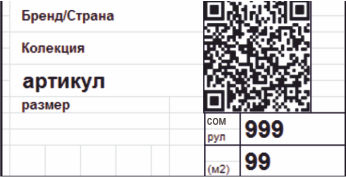
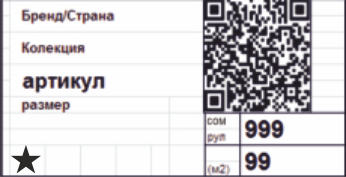
Подменил изображения ценников, добавил ссылки сайта в лого

diff --git a/index.html b/index.html
@@ -6,7 +6,7 @@
 	<link rel="stylesheet" href="css/reset.css">	
 	<link rel="stylesheet" href="vendor/bootstrap/bootstrap.css">
 	<link rel="stylesheet" href="css/main.css">
-	<title>Document</title>
+	<title>Торговый Дом Галерея</title>
 </head>
 <body>
 	<div class="container-fluid container-color">
@@ -14,7 +14,7 @@
 			<header class="header" id="top">
 				<div class="container">
 					<div class="col-xs-8 col-sm-8 col-md-8 col-lg-8">
-						<h1><a href="#"><img class="img-responsive logo" src="images/logo.png" alt="Логотип «ГАЛЕРЕЯ»" title="Торговый Дом Галерея" width="206" height="66"></a></h1>
+						<h1><a href="http://www.gallery.kg/"><img class="img-responsive logo" src="images/logo.png" alt="Логотип «ГАЛЕРЕЯ»" title="Торговый Дом Галерея" width="206" height="66"></a></h1>
 					</div>
 					<div class="col-xs-4 col-sm-4 col-md-4 col-lg-4">
 						<a href="#" class="center-block  language-btn">РУС</a>
@@ -177,7 +177,7 @@
 						</div>
 						<div class="col-xs-12 col-sm-12 col-md-6 col-lg-6">
 							<p class="cheap">ДЕШЕВЫЙ СЕГМЕНТ И РАСПРОДАЖА</p>
-							<img src="images/price_kg.png" alt="Ценник" width="346" height="177" class="img-responsive">
+							<img src="images/price_kg_2.png" alt="Ценник" width="346" height="177" class="img-responsive">
 						</div>					
 					</div>					
 				</section> 
@@ -190,7 +190,7 @@
 						</div>
 					</div>				
 					<div class="center-block little-logo">
-						<a href="#"><img src="images/logo.png" alt="Логотип «ГАЛЕРЕЯ»" title="Торговый Дом Галерея" width="206" height="66" class="img-responsive"></a>
+						<a href="http://www.gallery.kg/"><img src="images/logo.png" alt="Логотип «ГАЛЕРЕЯ»" title="Торговый Дом Галерея" width="206" height="66" class="img-responsive"></a>
 					</div>
 					<div class="container">
 						<p>г. Бишкек, 7мкр-н, Орто-Сайский р-к (ул. Жукеева-пудовкина/ул. Донецкая) тел. <a href="tel:+996312576461">+996 312 576461</a></p>

diff --git a/css/main.css b/css/main.css
@@ -5,7 +5,7 @@ body{
 section{
 	color:#fff;
 }
-h2{
+h1,h2{
 	margin-top: 10px;
 }
 .container-color{
@@ -23,18 +23,16 @@ h2{
 .header{
 	font-family: 'Segoe UI',"Helvetica Neue", Helvetica, sans-serif;;
 }
-.header{
-	margin-bottom: 8px;
-}
+
 .logo{
 	max-width: 320px;
 	width: 66%;
 }
 .language-btn{
 	display: block;
-	background: url(../images/Hamburger-icon.svg) 0 0 no-repeat;
+	background: url(../images/Hamburger-icon.svg) 0 5px no-repeat;
 	background-size: 30px;
-	margin: 15px 0 20px 25px;
+	margin: 10px 0 20px 20px;
 	padding: 0 0 0 40px;
 	text-decoration: none;
 	color: black;
@@ -291,8 +289,16 @@ h2{
 .footer .title-wrap{
 	margin: 0;
 }
+@media screen and (min-width: 680px){
+	.language-btn{
+		margin-top: 12px;
+	}
+}
 @media screen and (min-width: 992px){
 	.cheap{
 		margin: 29px 0;
+	}
+	.language-btn{
+		margin-top: 15px;
 	}
 }
